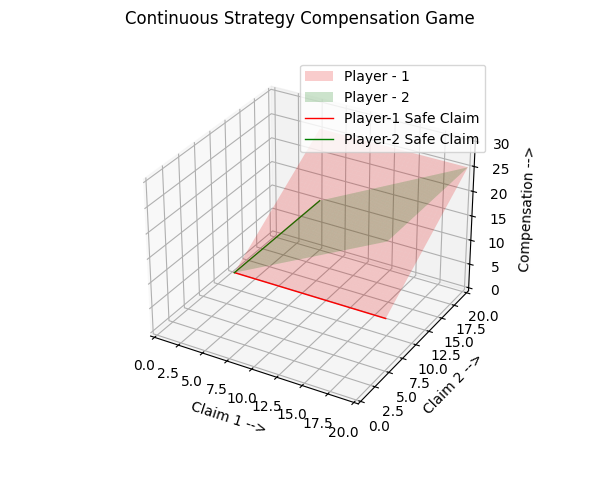
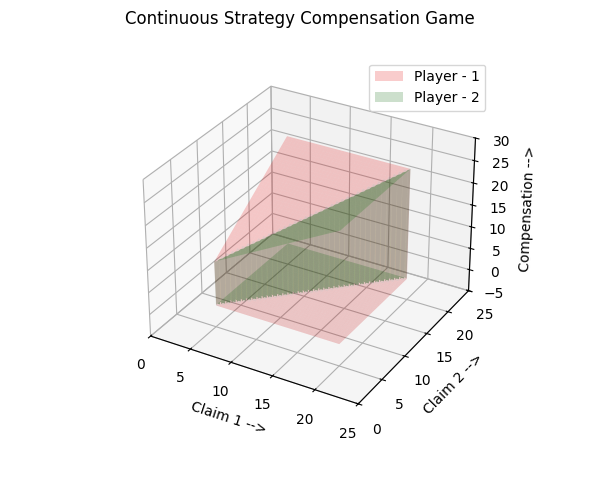
cmt

Changed region(s): [[0.2404, 0.125, 0.8715, 0.8438], [0.2104, 0.75, 0.6912, 0.9375]]

diff --git a/01StrategicDecision/Nashpy/05ContinuousStrategy.py b/01StrategicDecision/Nashpy/05ContinuousStrategy.py
@@ -4,7 +4,10 @@ import nashpy as nash
 
 
 def calc_compensation(q1, q2):
-    return q1 > q2 if 0 else q2 + 5
+    if q1 > q2:
+        return 0
+    else:
+        return q2 + 5
 
 
 fig = plt.figure(figsize=plt.figaspect(0.8))
@@ -14,8 +17,9 @@ ax = fig.add_subplot(1, 1, 1, projection='3d')
 q1 = np.linspace(5, 20, 151)
 q2 = np.linspace(5, 20, 151)
 q1_mesh, q2_mesh = np.meshgrid(q1, q2)
-compensation_1 = calc_compensation(q1_mesh, q2_mesh)
-compensation_2 = calc_compensation(q2_mesh, q1_mesh)
+v_calc_compensation = np.vectorize(calc_compensation)
+compensation_1 = v_calc_compensation(q1_mesh, q2_mesh)
+compensation_2 = v_calc_compensation(q2_mesh, q1_mesh)
 
 ax.plot_surface(q1_mesh, q2_mesh, compensation_1, color='red', alpha=0.2, linewidth=.5, label=f'Player - 1')
 ax.plot_surface(q1_mesh, q2_mesh, compensation_2, color='green', alpha=0.2, linewidth=.5, label=f'Player - 2')
@@ -29,9 +33,9 @@ ax.plot_surface(q1_mesh, q2_mesh, compensation_2, color='green', alpha=0.2, line
 # print(f'next_nash({type(next_nash)})\n{next_nash}')
 
 ax.legend(loc='upper right')
-ax.set_xlim(0, 20)
-ax.set_ylim(0, 20)
-ax.set_zlim(0, 30)
+ax.set_xlim(-0, 25)
+ax.set_ylim(-0, 25)
+ax.set_zlim(-5, 30)
 ax.set_xlabel('Claim 1 -->')
 ax.set_ylabel('Claim 2 -->')
 ax.set_zlabel('Compensation -->')

diff --git a/01StrategicDecision/Nashpy/11PrisonersDilemmaAxelrod.py b/01StrategicDecision/Nashpy/11PrisonersDilemmaAxelrod.py
@@ -1,0 +1,31 @@
+# python.exe -m pip install --upgrade pip
+# pip install --upgrade distribute
+# pip install --upgrade setuptools
+# pip install axelrod
+# pip install --upgrade axelrod
+# pip install --force-reinstall -U axelrod
+# pip install dask
+# pip install dask[dataframe]
+
+import axelrod as axl
+import matplotlib.pyplot as plt
+
+print(f'axl version = {axl.__version__}\n'
+      f'len(axl.strategies) = {len(axl.strategies)}')
+
+player1 = axl.TitForTat()
+player2 = axl.Alternator()
+match = axl.Match((player1, player2), turns=6)
+print(match.play())
+print(f'match.final_score_per_turn() = {match.final_score_per_turn()}')
+
+players = [s() for s in axl.demo_strategies]
+print(f'axl.demo_strategies = {axl.demo_strategies}')
+print(f'players = {players}')
+tournament = axl.Tournament(players, turns=10, repetitions=5)
+results = tournament.play()
+print(f'results = {results}')
+
+plot = axl.Plot(results)
+plot.boxplot()
+plt.show()

diff --git a/01StrategicDecision/Nashpy/07calcUtiities.py b/01StrategicDecision/Nashpy/07calcUtiities.py
@@ -1,0 +1,15 @@
+import numpy as np
+import nashpy as nash
+
+print('\n----- Matching Pennies Game -----')
+A = [[1, -1], [-1, 1]]
+B = [[-1, 1], [1, -1]]
+matching_pennies_game = nash.Game(A, B)
+print(f'Matching Pennies Game:\n{matching_pennies_game}')
+print('\n----- Utilities Score .8/.2 vs .6/.4-----')
+sigma_r = np.array([.8, .2])  # row player's strategy .8 of the times 1st row, .2 of the times second row
+sigma_c = np.array([.6, .4])  # col player's strategy .6 of the times 1st col, .4 of the times second col
+print(f'Matching Pennies (.8/.2 vs .6/.4) Utilities Score:\n{matching_pennies_game[sigma_r, sigma_c]}')
+print('\n----- Utilities Score 1./.0 vs .6/.4-----')
+sigma_r = np.array([1., .0])  # row player's strategy 1. of the times 1st row, .0 of the times second row
+print(f'Matching Pennies (1./.0 vs .6/.4) Utilities Score:\n{matching_pennies_game[sigma_r, sigma_c]}')

diff --git a/01StrategicDecision/Nashpy/10nashEqViaLemkeHowson.py b/01StrategicDecision/Nashpy/10nashEqViaLemkeHowson.py
@@ -1,0 +1,16 @@
+import nashpy as nash
+
+A = [[3, 1], [0, 2]]
+B = [[2, 1], [0, 3]]
+battle_of_sexes_game = nash.Game(A, B)
+print(f'battle_of_sexes_game:\n{battle_of_sexes_game}')
+
+print(f'\nbattle_of_sexes_game.lemke_howson(initial_dropped_label=0): '
+      f'{battle_of_sexes_game.lemke_howson(initial_dropped_label=0)}')
+
+print(f'\nlist(battle_of_sexes_game.lemke_howson_enumeration()):\n'
+      f'{list(battle_of_sexes_game.lemke_howson_enumeration())}')
+
+print(f'\nElements of battle_of_sexes_game.lemke_howson_enumeration():')
+for i, eq in enumerate(battle_of_sexes_game.lemke_howson_enumeration()):
+    print(f'element{i}: {eq}')

diff --git a/01StrategicDecision/Nashpy/01NormalFormGames101.py b/01StrategicDecision/Nashpy/01NormalFormGames101.py
@@ -25,6 +25,11 @@ B = [[-1, 1], [1, -1]]
 matching_pennies_game = nash.Game(A, B)
 print(f'Matching Pennies Game:\n{matching_pennies_game}')
 
+print('\n----- Single Matrix Matching Pennies Game -----')
+A = [[5, 6], [3, 4]]
+single_matrix_matching_pennies_game = nash.Game(A)
+print(f'Single Matrix Matching Pennies Game:\n{single_matrix_matching_pennies_game}')
+
 print('\n----- Market Share for Low Price Game -----')
 print(f'Firm1 & Firm2 sales identical apples at $10 or $5 to 100 customers.'
       f'80 customers care for low unit sale price, 20 are oblivious to price.')

diff --git a/01StrategicDecision/Nashpy/08nashEqViaSupportEnum.py b/01StrategicDecision/Nashpy/08nashEqViaSupportEnum.py
@@ -1,0 +1,18 @@
+import numpy as np
+import nashpy as nash
+
+A = np.array([[1, 1, -1], [2, -1, 0]])
+B = np.array([[.5, -1, -.5], [-1, 3, 2]])
+game = nash.Game(A, B)
+print(f'Game:\n{game}')
+
+eqs = game.support_enumeration()
+print(f'Iterating the type {type(eqs)}')
+for eq in eqs:
+    print(f'eq: {eq}')
+print(f'Iterating can only be done once over type {type(eqs)}')
+for eq in eqs:
+    print(f'\neq: {eq}')
+
+eqs = game.support_enumeration()
+print(f'List of Equilibrium: {list(eqs)}')

diff --git a/01StrategicDecision/Nashpy/12InfinitePopulationEvolutionaryGame.py b/01StrategicDecision/Nashpy/12InfinitePopulationEvolutionaryGame.py
@@ -1,0 +1,20 @@
+import numpy as np
+from scipy.integrate import odeint
+import matplotlib.pyplot as plt
+
+
+# define derivative numerically
+def dx(x, t, A):
+    f = np.dot(A, x)
+    phi = np.dot(x, f)
+    return x * (f - phi)
+
+
+t = np.linspace(0, 20, 101)
+# t = np.linspace(0, 10, 101)
+# A = np.array([[4, 3, 2], [2, 1, 5], [6, 0, 3]])
+A = np.array([[0, 3, 2], [2, 1, 5], [6, 0, 3]])
+xs = odeint(func=dx, y0=[1/3, 1/3, 1/3], t=t, args=(A,))
+
+plt.plot(xs)
+plt.show()

diff --git a/01StrategicDecision/Nashpy/09nashEqViaVertexEnum.py b/01StrategicDecision/Nashpy/09nashEqViaVertexEnum.py
@@ -1,0 +1,10 @@
+import numpy as np
+import nashpy as nash
+
+A = np.array([[1, 1, -1], [2, -1, 0]])
+B = np.array([[.5, -1, -.5], [-1, 3, 2]])
+game = nash.Game(A, B)
+print(f'Game:\n{game}')
+
+eqs = game.vertex_enumeration()
+print(f'List of Equilibrium: {list(eqs)}')
